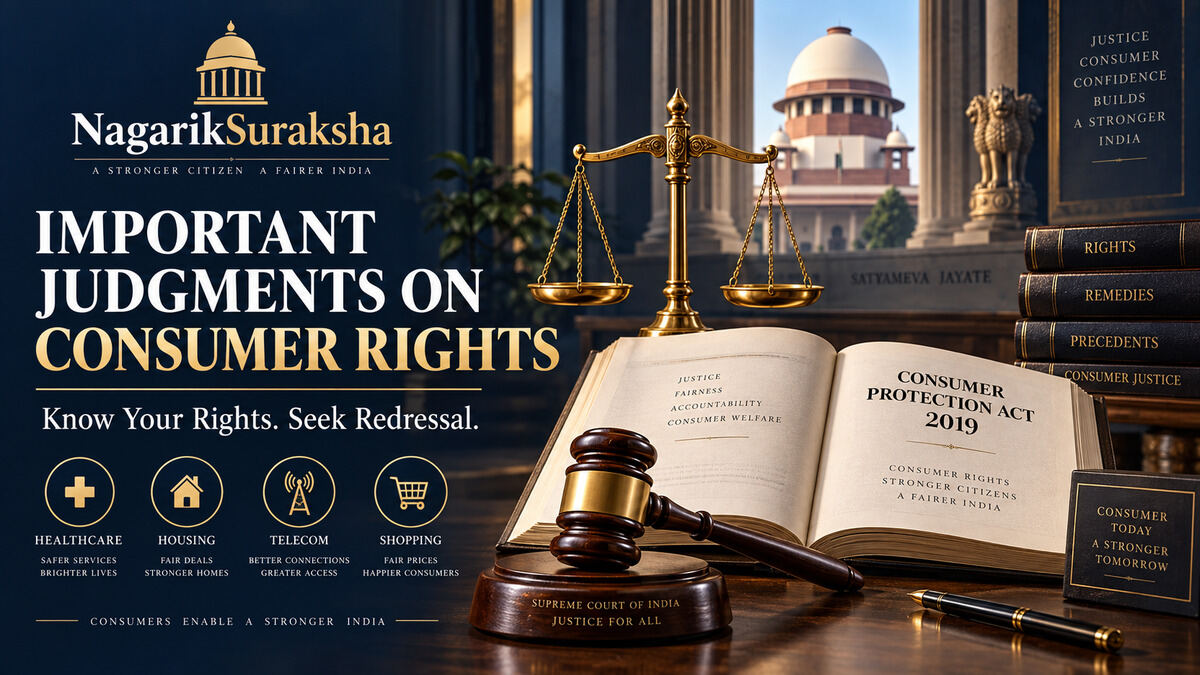
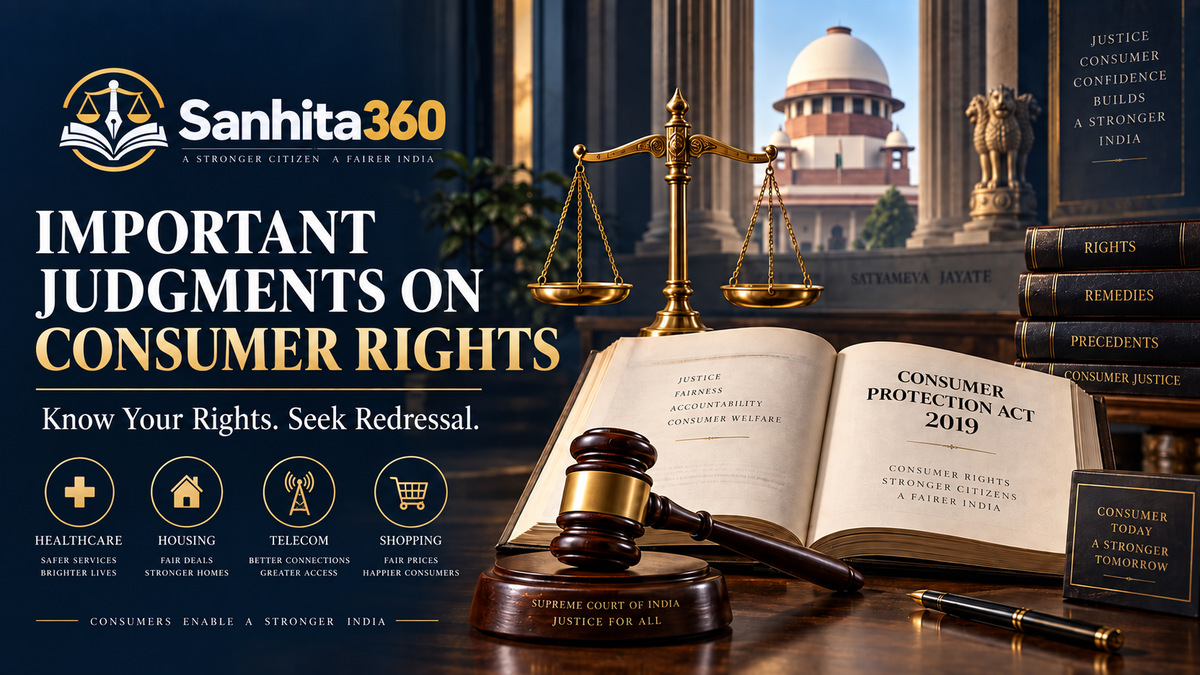
Restore original legal update artwork and remove replacement images (#120)

diff --git a/src/features/public/legal/pages/UnrecoveredOnlineFraudFundsPage.jsx b/src/features/public/legal/pages/UnrecoveredOnlineFraudFundsPage.jsx
@@ -68,7 +68,7 @@ export default function UnrecoveredOnlineFraudFundsPage() {
         title="Next Steps for Unrecovered Online Fraud Funds"
         description="Legal and practical options in India when money lost to an online financial fraud remains unrecovered after a cybercrime complaint."
         canonical="/legal-updates/next-steps-unrecovered-online-fraud-funds"
-        image="/images/legal-updates/unrecovered-online-fraud-funds-sanhita360.png"
+        image="/images/legal-updates/unrecovered-online-fraud-funds.jpg"
         keywords={["online fraud money recovery India", "cybercrime complaint follow up", "Money Restoration Module", "BNSS cyber fraud FIR", "RBI Ombudsman fraud complaint"]}
       />
 
@@ -83,7 +83,7 @@ export default function UnrecoveredOnlineFraudFundsPage() {
               <h1>Next Steps for Unrecovered Online Fraud Funds</h1>
               <p>If money has not returned after a cybercrime complaint, the matter is not necessarily over. A nagarik can follow the frozen funds, seek proper criminal investigation, pursue the bank's grievance route and consider regulatory or consumer remedies where the facts support them.</p>
             </div>
-            <img src="/images/legal-updates/unrecovered-online-fraud-funds-sanhita360.png" alt="Legal options for unrecovered online financial fraud funds" />
+            <img src="/images/legal-updates/unrecovered-online-fraud-funds.jpg" alt="Legal options for unrecovered online financial fraud funds" />
           </div>
         </section>
 

diff --git a/worker/index.js b/worker/index.js
@@ -37,17 +37,17 @@ const LEGAL_UPDATE_SOCIAL_META = {
   "/legal-updates/important-judgement-on-consumer-rights": {
     title: "Important Judgments on Consumer Rights | Sanhita360",
     description: "Understand consumer rights in India and landmark Supreme Court judgments concerning medical services, homebuyers, commercial purpose and telecom disputes.",
-    image: "/images/legal-updates/consumer-rights-landmark-judgments-sanhita360.png",
+    image: "/images/legal-updates/consumer-rights-landmark-judgments.jpg",
   },
   "/legal-updates/bought-mortgaged-property-by-fraud": {
     title: "Bought a Mortgaged Property by Fraud? | Sanhita360",
     description: "Practical legal steps in Kolkata when a seller conceals an earlier mortgage: lender notice, police complaint, SARFAESI and DRT remedies, and civil recovery.",
-    image: "/images/legal-updates/mortgaged-property-fraud-sanhita360.png",
+    image: "/images/legal-updates/mortgaged-property-fraud.jpg",
   },
   "/legal-updates/next-steps-unrecovered-online-fraud-funds": {
     title: "Next Steps for Unrecovered Online Fraud Funds | Sanhita360",
     description: "Options available when money remains unrecovered after an online financial-fraud complaint, including MRM, police escalation, banking and consumer remedies.",
-    image: "/images/legal-updates/unrecovered-online-fraud-funds-sanhita360.png",
+    image: "/images/legal-updates/unrecovered-online-fraud-funds.jpg",
   },
 };
 

diff --git a/src/features/public/legal/pages/ConsumerRightsJudgmentsPage.jsx b/src/features/public/legal/pages/ConsumerRightsJudgmentsPage.jsx
@@ -87,7 +87,7 @@ export default function ConsumerRightsJudgmentsPage() {
         title="Important Judgments on Consumer Rights"
         description="Understand consumer rights in India and landmark Supreme Court judgments concerning medical services, commercial purpose, homebuyers and telecom disputes."
         canonical="/legal-updates/important-judgement-on-consumer-rights"
-        image="/images/legal-updates/consumer-rights-landmark-judgments-sanhita360.png"
+        image="/images/legal-updates/consumer-rights-landmark-judgments.jpg"
         keywords={["consumer rights India", "Consumer Protection Act 2019", "consumer court judgments", "medical negligence consumer law", "homebuyer consumer rights"]}
       />
 
@@ -105,7 +105,7 @@ export default function ConsumerRightsJudgmentsPage() {
                   Landmark judgments of the Supreme Court of India have shaped consumer protection by extending effective remedies to areas including medical treatment, housing and telecommunications, while clarifying who qualifies as a consumer.
                 </p>
               </div>
-              <img src="/images/legal-updates/consumer-rights-landmark-judgments-sanhita360.png" alt="Important judgments on consumer rights in India" />
+              <img src="/images/legal-updates/consumer-rights-landmark-judgments.jpg" alt="Important judgments on consumer rights in India" />
             </div>
           </div>
         </section>

diff --git a/src/features/public/legal/pages/MortgagedPropertyFraudPage.jsx b/src/features/public/legal/pages/MortgagedPropertyFraudPage.jsx
@@ -68,7 +68,7 @@ export default function MortgagedPropertyFraudPage() {
         title="Bought a Mortgaged Property by Fraud? Protect Your Home and Money"
         description="Practical legal steps in Kolkata when a seller conceals an earlier mortgage: police complaint, lender notice, SARFAESI and DRT remedies, civil recovery and title verification."
         canonical="/legal-updates/bought-mortgaged-property-by-fraud"
-        image="/images/legal-updates/mortgaged-property-fraud-sanhita360.png"
+        image="/images/legal-updates/mortgaged-property-fraud.jpg"
         keywords={["mortgaged property fraud Kolkata", "property sold with bank loan", "SARFAESI purchaser remedy", "DRT Section 17", "CERSAI property search", "property cheating BNS"]}
       />
 
@@ -83,7 +83,7 @@ export default function MortgagedPropertyFraudPage() {
               <h1>Bought a Mortgaged Property by Fraud?</h1>
               <p>Here is how a nagarik can act to protect the home, challenge unlawful conduct and pursue recovery when a seller concealed an earlier mortgage or lien.</p>
             </div>
-            <img src="/images/legal-updates/mortgaged-property-fraud-sanhita360.png" alt="Protecting a home and money after mortgaged property fraud" />
+            <img src="/images/legal-updates/mortgaged-property-fraud.jpg" alt="Protecting a home and money after mortgaged property fraud" />
           </div>
         </section>
 

diff --git a/src/features/home/components/LatestUpdates.jsx b/src/features/home/components/LatestUpdates.jsx
@@ -30,7 +30,7 @@ const updates = [
     description:
       "Landmark Supreme Court judgments have expanded consumer protection across medical treatment, housing, commercial purchases and telecommunications.",
     link: "/legal-updates/important-judgement-on-consumer-rights",
-    image: "/images/legal-updates/consumer-rights-landmark-judgments-sanhita360.png",
+    image: "/images/legal-updates/consumer-rights-landmark-judgments.jpg",
   },
   {
     id: 2,
@@ -40,7 +40,7 @@ const updates = [
     description:
       "Understand the urgent legal steps available when a seller conceals an earlier bank mortgage or lien over the property you purchased.",
     link: "/legal-updates/bought-mortgaged-property-by-fraud",
-    image: "/images/legal-updates/mortgaged-property-fraud-sanhita360.png",
+    image: "/images/legal-updates/mortgaged-property-fraud.jpg",
   },
   {
     id: 3,
@@ -50,7 +50,7 @@ const updates = [
     description:
       "Understand the options available when money remains unrecovered after reporting an online financial fraud to the cybercrime authorities.",
     link: "/legal-updates/next-steps-unrecovered-online-fraud-funds",
-    image: "/images/legal-updates/unrecovered-online-fraud-funds-sanhita360.png",
+    image: "/images/legal-updates/unrecovered-online-fraud-funds.jpg",
   },
 ];
 
